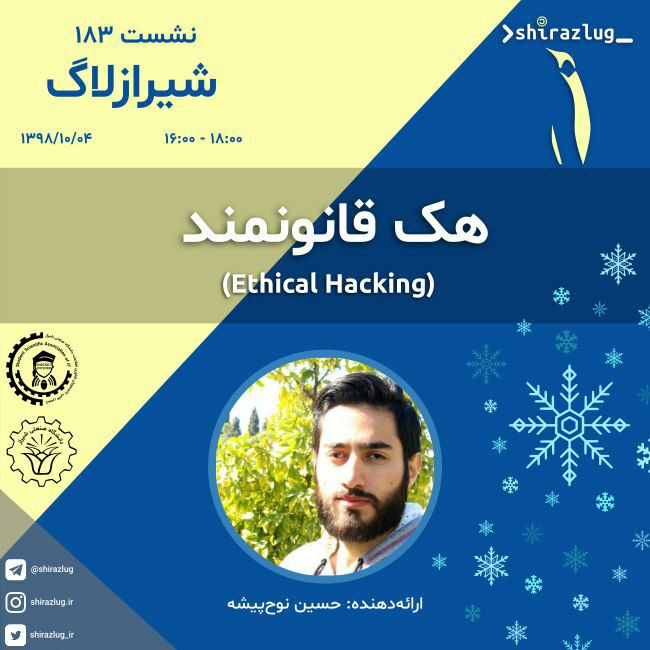
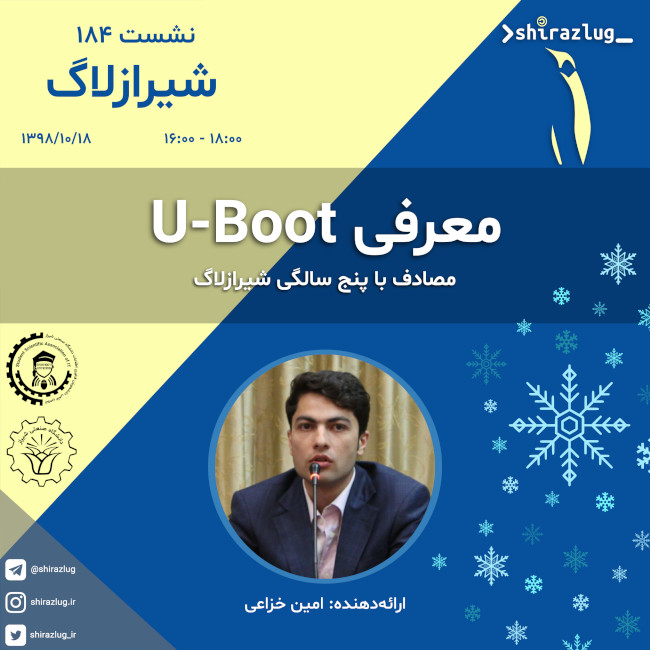
[UPDATE]: next session updated to 184

diff --git a/content/sessions/next_session.md b/content/sessions/next_session.md
@@ -2,8 +2,8 @@
 title: "جلسه آینده"
 author: "مریم بهزادی"
 draft: false
-date: "1398-10-04"
-description: "Ethical Hacking"
+date: "1398-10-18"
+description: "U-Boot"
 weight: -1
 summaryImage: "/img/posters/next_session.jpg"
 ---
